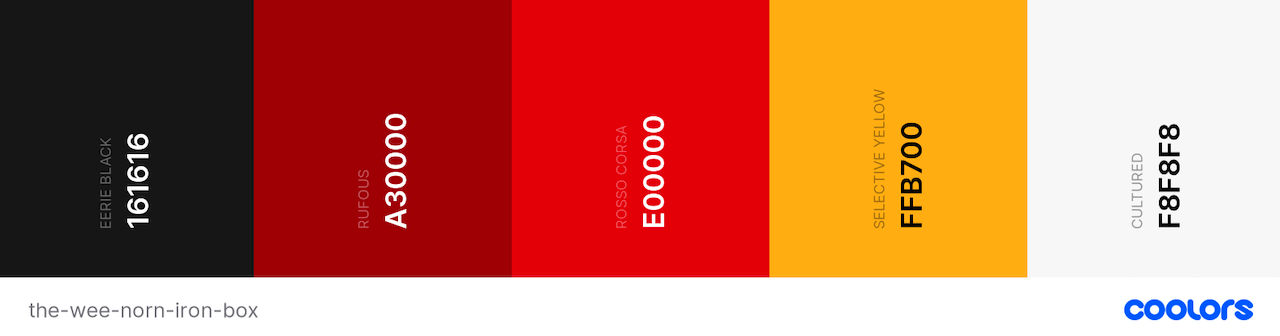
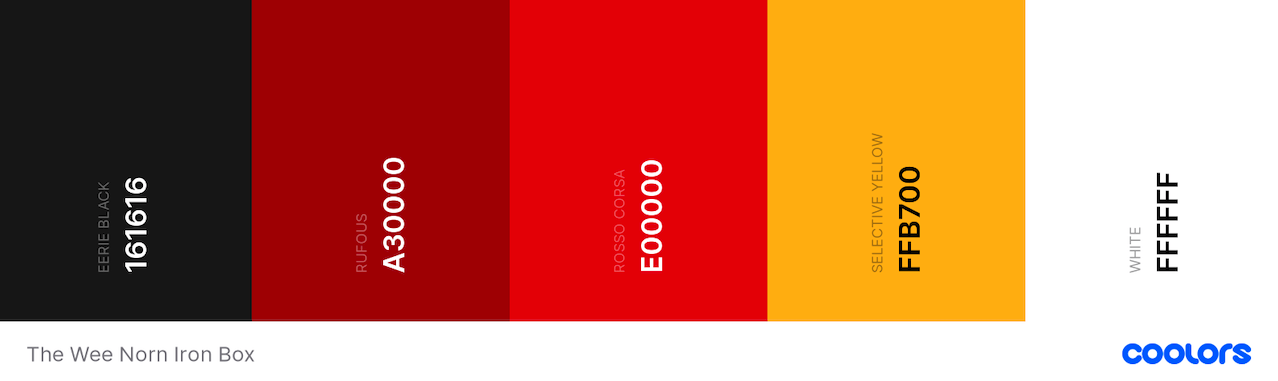
remove products dropdown menu from nav

diff --git a/templates/base.html b/templates/base.html
@@ -2,109 +2,106 @@
 
 <!DOCTYPE html>
 <html lang="en">
-<head>
-    {% block meta %}
-        <meta charset="UTF-8">
-        <meta http-equiv="X-UA-Compatible" content="IE=edge">
-        <meta name="viewport" content="width=device-width, initial-scale=1.0">
+    <head>
+        {% block meta %}
+            <meta charset="UTF-8">
+            <meta http-equiv="X-UA-Compatible" content="IE=edge">
+            <meta name="viewport" content="width=device-width, initial-scale=1.0">
 
-        <!-- Favicon -->
-        <link rel="icon" type="image/png" href={% static "images/twnib-logo.png" %}>
-    {% endblock %}
+            <!-- Favicon -->
+            <link rel="icon" type="image/png" href={% static "images/twnib-logo.png" %}>
+        {% endblock %}
 
-    {% block extra_meta %}
-    {% endblock %}
+        {% block extra_meta %}
+        {% endblock %}
 
-    {% block core_css%}
-        <!-- Bootstrap CSS -->
-        <link rel="stylesheet" href="https://cdn.jsdelivr.net/npm/bootstrap@4.6.0/dist/css/bootstrap.min.css"
-            integrity="sha384-B0vP5xmATw1+K9KRQjQERJvTumQW0nPEzvF6L/Z6nronJ3oUOFUFpCjEUQouq2+l" crossorigin="anonymous">
-        <!-- Font Awesome -->
-        <link rel="stylesheet" href="https://use.fontawesome.com/releases/v5.15.3/css/all.css"
-            integrity="sha384-SZXxX4whJ79/gErwcOYf+zWLeJdY/qpuqC4cAa9rOGUstPomtqpuNWT9wdPEn2fk" crossorigin="anonymous">
-        <!-- Google Fonts -->
-        <link href="https://fonts.googleapis.com/css2?family=Anton&family=Roboto:wght@400;500;700&display=swap"
-            rel="stylesheet">
-        <!-- Base CSS -->
-        <link rel="stylesheet" href="{% static 'css/base.css' %}">
-    {% endblock %}
+        {% block core_css%}
+            <!-- Bootstrap CSS -->
+            <link rel="stylesheet" href="https://cdn.jsdelivr.net/npm/bootstrap@4.6.0/dist/css/bootstrap.min.css"
+                integrity="sha384-B0vP5xmATw1+K9KRQjQERJvTumQW0nPEzvF6L/Z6nronJ3oUOFUFpCjEUQouq2+l" crossorigin="anonymous">
+            <!-- Font Awesome -->
+            <link rel="stylesheet" href="https://use.fontawesome.com/releases/v5.15.3/css/all.css"
+                integrity="sha384-SZXxX4whJ79/gErwcOYf+zWLeJdY/qpuqC4cAa9rOGUstPomtqpuNWT9wdPEn2fk" crossorigin="anonymous">
+            <!-- Google Fonts -->
+            <link href="https://fonts.googleapis.com/css2?family=Anton&family=Roboto:wght@400;500;700&display=swap"
+                rel="stylesheet">
+            <!-- Base CSS -->
+            <link rel="stylesheet" href="{% static 'css/base.css' %}">
+        {% endblock %}
 
-    {% block extra_css %}
-    {% endblock %}
+        {% block extra_css %}
+        {% endblock %}
 
-    {% block core_js %}
-        <!-- Bootstrap JS, jQuery and Popper -->
-        <script src="https://code.jquery.com/jquery-3.5.1.slim.min.js" integrity="sha384-DfXdz2htPH0lsSSs5nCTpuj/zy4C+OGpamoFVy38MVBnE+IbbVYUew+OrCXaRkfj" crossorigin="anonymous"></script>
-        <script src="https://cdn.jsdelivr.net/npm/popper.js@1.16.1/dist/umd/popper.min.js" integrity="sha384-9/reFTGAW83EW2RDu2S0VKaIzap3H66lZH81PoYlFhbGU+6BZp6G7niu735Sk7lN" crossorigin="anonymous"></script>
-        <script src="https://cdn.jsdelivr.net/npm/bootstrap@4.6.0/dist/js/bootstrap.min.js" integrity="sha384-+YQ4JLhjyBLPDQt//I+STsc9iw4uQqACwlvpslubQzn4u2UU2UFM80nGisd026JF" crossorigin="anonymous"></script>
-    {% endblock %}
+        {% block core_js %}
+            <!-- Bootstrap JS, jQuery and Popper -->
+            <script src="https://code.jquery.com/jquery-3.5.1.slim.min.js" integrity="sha384-DfXdz2htPH0lsSSs5nCTpuj/zy4C+OGpamoFVy38MVBnE+IbbVYUew+OrCXaRkfj" crossorigin="anonymous"></script>
+            <script src="https://cdn.jsdelivr.net/npm/popper.js@1.16.1/dist/umd/popper.min.js" integrity="sha384-9/reFTGAW83EW2RDu2S0VKaIzap3H66lZH81PoYlFhbGU+6BZp6G7niu735Sk7lN" crossorigin="anonymous"></script>
+            <script src="https://cdn.jsdelivr.net/npm/bootstrap@4.6.0/dist/js/bootstrap.min.js" integrity="sha384-+YQ4JLhjyBLPDQt//I+STsc9iw4uQqACwlvpslubQzn4u2UU2UFM80nGisd026JF" crossorigin="anonymous"></script>
+        {% endblock %}
 
-    {% block extra_js %}
-    {% endblock %}
+        {% block extra_js %}
+        {% endblock %}
 
-    <title>The Wee Norn Iron Box{% block extra_title %}{% endblock %}</title>
-</head>
+        <title>The Wee Norn Iron Box{% block extra_title %}{% endblock %}</title>
+    </head>
 
-<body>
-    <header class="fixed-top">
-        <!-- Top Nav -->
-        <nav class="navbar navbar-expand-md justify-content-between font-weight-bold">
-            <!-- Brand/Logo -->
-            <a class="navbar-brand" href="{% url 'home' %}">
-                <!-- Code from Django Docs: https://docs.djangoproject.com/en/3.2/howto/static-files/ -->
-                <img src={% static "images/twnib-logo.png" %} alt="The Wee Norn Iron Box Logo">
-                <span class="d-none d-md-inline-block ml-1">The Wee Norn Iron Box</span>
-            </a>
-            <!-- Mobile Nav Toggler -->
-            <button class="navbar-toggler" type="button" data-toggle="collapse" data-target="#navbar"
-                aria-controls="navbar" aria-expanded="false" aria-label="Toggle navigation">
-                <i class="fas fa-bars"></i>
-            </button>
-            <!-- Navbar -->
-            <div class="collapse navbar-collapse justify-content-end" id="navbar">
-                <ul class="navbar-nav text-center">
-                    {% if request.user.is_authenticated %}
-                        <a class="nav-link" href="#">My Account</a>
-                        <a class="nav-link" href="#">My Box</a>
-                        <a class="nav-link" href="{% url 'account_logout' %}">Logout</a>
-                    {% else %}
-                        <a class="nav-link" href="{% url 'account_signup' %}">Subscribe</a>
-                        <a class="nav-link" href="{% url 'account_login' %}">Login</a>
-                    {% endif %}
-                    <a class="nav-link" data-toggle="collapse" href="#productsCollapsible" role="button"
-                        aria-expanded="false" aria-controls="productsCollapsible">
-                        Products
-                    </a>
+    <body>
+        <header class="fixed-top">
+            <!-- Top Nav -->
+            <nav class="navbar navbar-expand-md justify-content-between font-weight-bold">
+                <!-- Brand/Logo -->
+                <a class="navbar-brand" href="{% url 'home' %}">
+                    <!-- Code from Django Docs: https://docs.djangoproject.com/en/3.2/howto/static-files/ -->
+                    <img src={% static "images/twnib-logo.png" %} alt="The Wee Norn Iron Box Logo">
+                    <span class="d-none d-md-inline-block ml-1">The Wee Norn Iron Box</span>
+                </a>
+                <!-- Mobile Nav Toggler -->
+                <button class="navbar-toggler" type="button" data-toggle="collapse" data-target="#navbar"
+                    aria-controls="navbar" aria-expanded="false" aria-label="Toggle navigation">
+                    <i class="fas fa-bars"></i>
+                </button>
+                <!-- Navbar -->
+                <div class="collapse navbar-collapse justify-content-end" id="navbar">
+                    <ul class="navbar-nav text-center">
+                        {% if request.user.is_authenticated %}
+                            <a class="nav-link" href="#">My Account</a>
+                            <a class="nav-link" href="#">My Box</a>
+                            <a class="nav-link" href="{% url 'account_logout' %}">Logout</a>
+                        {% else %}
+                            <a class="nav-link" href="{% url 'account_signup' %}">Subscribe</a>
+                            <a class="nav-link" href="{% url 'account_login' %}">Login</a>
+                        {% endif %}
+                        <a class="nav-link" href="{% url 'products' %}">Products</a>
+                    </ul>
+                </div>
+            </nav>
+            <!-- Products Collapable -->
+            {% comment %} <div class="collapse py-2" id="productsCollapsible">
+                <ul class="nav font-weight-bold">
+                    <a class="nav-link" href="{% url 'products' %}">All Products</a>
+                    <a class="nav-link" href="#">Baked Goods</a>
+                    <a class="nav-link" href="#">Drinks</a>
+                    <a class="nav-link" href="#">Snacks</a>
                 </ul>
-            </div>
-        </nav>
-        <!-- Products Collapable -->
-        <div class="collapse py-2" id="productsCollapsible">
-            <ul class="nav font-weight-bold">
-                <a class="nav-link" href="#">All Products</a>
-                <a class="nav-link" href="#">Baked Goods</a>
-                <a class="nav-link" href="#">Drinks</a>
-                <a class="nav-link" href="#">Snacks</a>
-            </ul>
-        </div>
-    </header> 
+            </div> {% endcomment %}
+        </header> 
 
-    {% if messages %}
-        <div class="container"></div>
-    {% endif %}
+        {% if messages %}
+            <div class="container"></div>
+        {% endif %}
 
-    {% block content %}
-    {% endblock %}
+        {% block content %}
+        {% endblock %}
 
-    <!-- Contact/Social Links -->
-    <footer class="container text-center p-5">
-        <h5>Follow Us</h5>
-        <a href="https://www.facebook.com" target="_blank"><i class="fab fa-facebook-square mt-3 mx-3"></i></a>
-        <a href="https://www.twitter.com" target="_blank"><i class="fab fa-twitter-square mt-3 mx-3"></i></a>
-        <a href="https://www.instagram.com" target="_blank"><i class="fab fa-instagram-square mt-3 mx-3"></i></a>
-    </footer>
+        <!-- Contact/Social Links -->
+        <footer class="container text-center p-5">
+            <h5>Follow Us</h5>
+            <a href="https://www.facebook.com" target="_blank"><i class="fab fa-facebook-square mt-3 mx-3"></i></a>
+            <a href="https://www.twitter.com" target="_blank"><i class="fab fa-twitter-square mt-3 mx-3"></i></a>
+            <a href="https://www.instagram.com" target="_blank"><i class="fab fa-instagram-square mt-3 mx-3"></i></a>
+        </footer>
 
-    {% block postloadjs %}
-    {% endblock %}
-</body>
+        {% block postloadjs %}
+        {% endblock %}
+    </body>
 </html>

diff --git a/products/templates/products/products.html b/products/templates/products/products.html
@@ -2,14 +2,18 @@
 {% load static %}
 
 {% block content %}
-    <div class="products-container p-5">
+    <div class="products-heading d-flex justify-content-center align-items-center">
+        <h1>Our Wee Products</h1>
+    </div>
+
+    <div class="products-container p-3">
         <div class="row">
             {% for product in products %}
-                <div class="col-md-6 col-lg-4">
-                    <div class="card border-0 product-card m-3">
-                        <img src="{{ product.image.url }}" class="card-img-top img-fluid p-4" alt="{{ product.name }}">
+                <div class="col-md-4">
+                    <div class="card border-0 mx-2 my-3">
+                        <img src="{{ product.image.url }}" class="card-img-top img-fluid" alt="{{ product.name }}">
                         <div class="card-body">
-                            <p class="card-text text-center">{{ product.name }}</p>
+                            <p class="card-text text-center font-weight-bold">{{ product.name }}</p>
                         </div>
                     </div>
                 </div>

diff --git a/static/css/base.css b/static/css/base.css
@@ -34,10 +34,6 @@ h5,
     letter-spacing: 1px;
 }
 
-/* .heading {
-    display: none;
-} */
-
 p {
     font-size: 1rem;
 }
@@ -86,10 +82,9 @@ i.fas {
 
 /* ---------- Background Images ----------*/
 .img-container {
-    height: 50vh;
-    width: auto;
     background: url('/static/images/box-mock-up.jpg') no-repeat center center;
     background-size: cover;
+    height: 50vh;
 }
 /* ---------- End Background Images ----------*/
 
@@ -153,6 +148,12 @@ footer h5 {
 /* ---------- End Footer ---------- */
 
 /* ---------- Products ---------- */
+.products-heading {
+    background: var(--black);
+    color: var(--white);
+    height: calc(40vh + 140px);
+}
+
 .products-container {
     background: var(--yellow);
 }
@@ -182,7 +183,7 @@ footer h5 {
 @media only screen and (min-width: 1440px) {
     /* Background Image */
     .img-container {
-        height: 90vh;
+        height: calc(100vh - 100px);
     }
     
     /* CTA Button */

diff --git a/README.md b/README.md
@@ -98,7 +98,7 @@ The colour palette for this project is based on the colours of the Harland and W
 - ![#A30000](https://via.placeholder.com/15/a30000/000000?text=+) `#A30000`:
 - ![#E00000](https://via.placeholder.com/15/e00000/000000?text=+) `#E00000`:
 - ![#FFB700](https://via.placeholder.com/15/ffb700/000000?text=+) `#FFB700`:
-- ![#F8F8F8](https://via.placeholder.com/15/f8f8f8/000000?text=+) `#F8F8F8`:
+- ![#FFFFFF](https://via.placeholder.com/15/ffffff/000000?text=+) `#FFFFFF`:
 
 #### Typography
 
